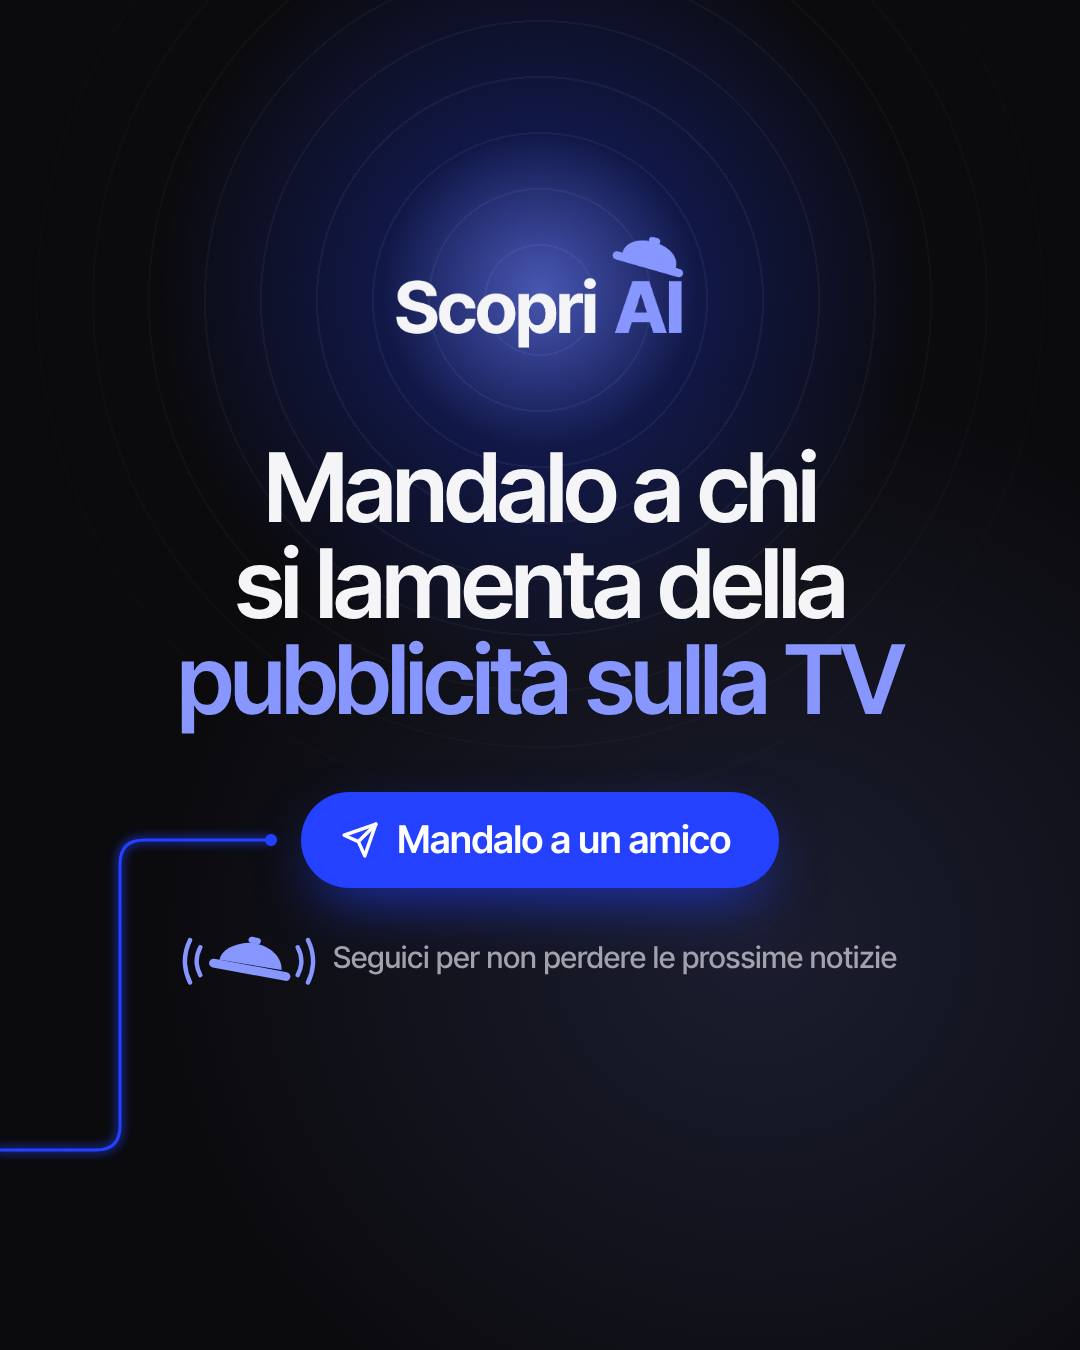
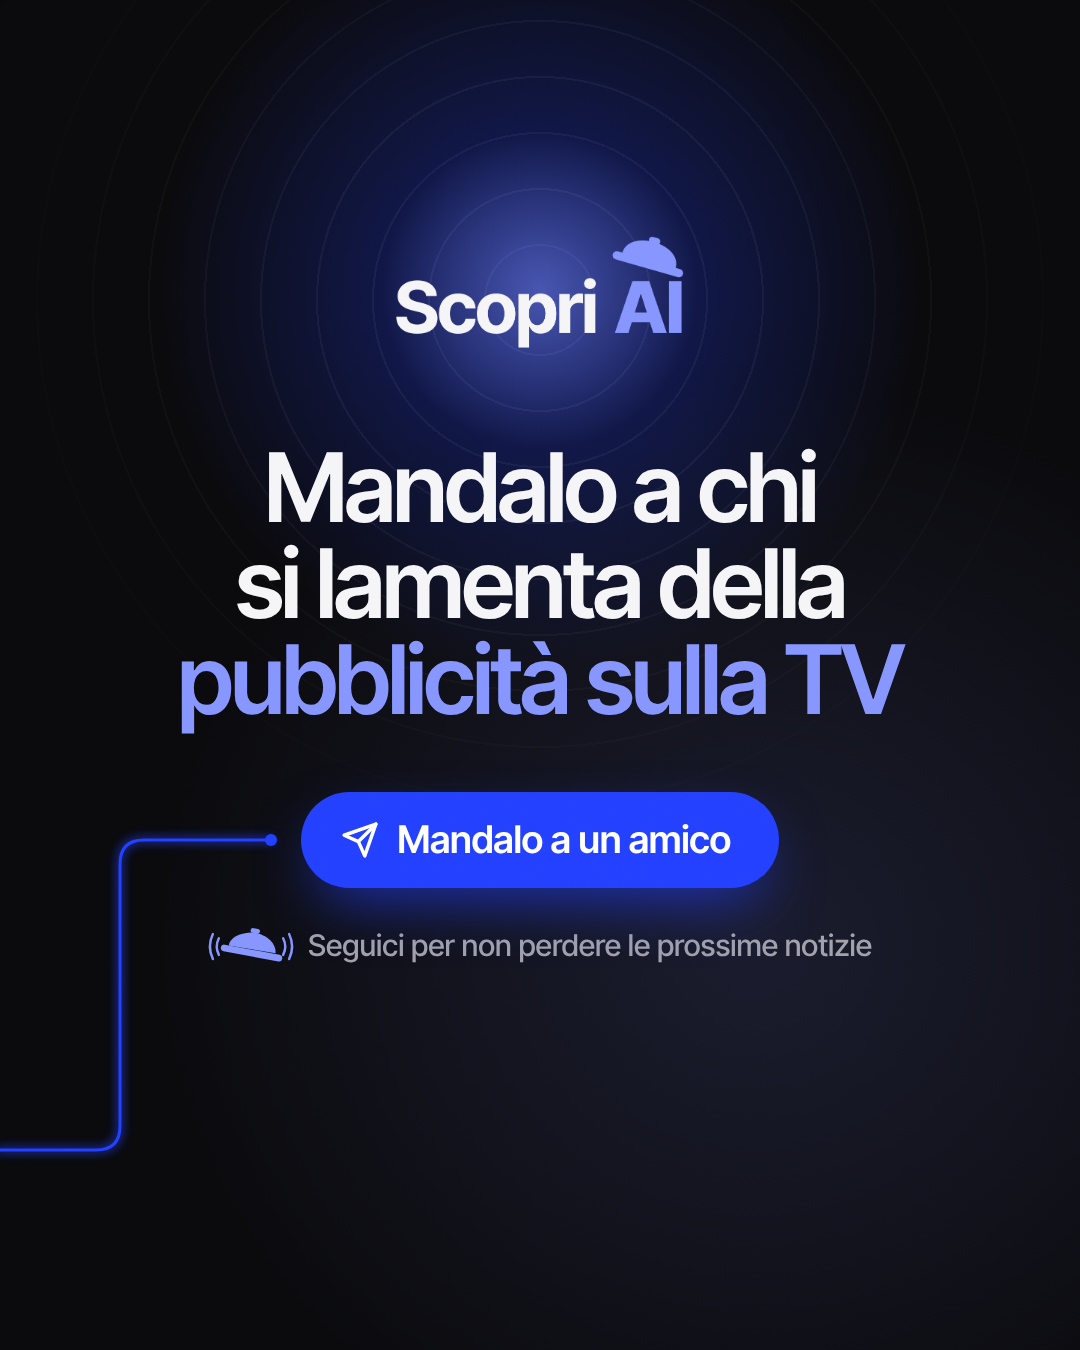
Chiusura: campana che vibra più piccola, in scala con il testo (anche nella skill)
Claude-Session: https://claude.ai/code/session_01XwbamHMD22pS1qReAsKQQF

Changed region(s): [[0.1528, 0.6844, 0.825, 0.7467]]

diff --git a/.claude/skills/scopri-carousel/assets/template/engine/carousel.js b/.claude/skills/scopri-carousel/assets/template/engine/carousel.js
@@ -46,13 +46,13 @@
 
   /* The lid of the Coperchio logo, used as the "bell" of the follow line */
   /* The lid of the Coperchio logo as a ringing bell: slightly tilted, two curved vibration lines on each side (20 Oct 2026) */
-  const BELL = '<svg class="bell" viewBox="0 0 900 420" aria-hidden="true">' +
+  const BELL = '<svg class="bell" viewBox="62 58 776 324" aria-hidden="true">' +
     '<g transform="translate(168 62) scale(.94) rotate(-6 300 170)"><path d="M88 140C110 70 200 35 310 40C420 50 545 140 528 262Z"/>' +
     '<path d="M42 160L555 312" style="fill:none;stroke:currentColor;stroke-width:64;stroke-linecap:round"/>' +
     '<path d="M335 22L378 35" style="fill:none;stroke:currentColor;stroke-width:46;stroke-linecap:round"/></g>' +
-    '<g style="fill:none;stroke:currentColor;stroke-width:30;stroke-linecap:round">' +
-    '<path d="M118 130Q68 225 118 320"/><path d="M48 80Q-22 225 48 370"/>' +
-    '<path d="M782 130Q832 225 782 320"/><path d="M852 80Q922 225 852 370"/></g></svg>';
+    '<g style="fill:none;stroke:currentColor;stroke-width:22;stroke-linecap:round">' +
+    '<path d="M160 150Q122 225 160 300"/><path d="M106 112Q52 225 106 338"/>' +
+    '<path d="M740 150Q778 225 740 300"/><path d="M794 112Q848 225 794 338"/></g></svg>';
   const FOLLOW = { notizia: 'Seguici per non perdere le prossime notizie', curiosita: 'Seguici per non perdere le prossime curiosità',
     prompt: 'Seguici per non perdere i prossimi prompt', lista: 'Seguici per non perdere i prossimi consigli', serie: 'Seguici per la prossima puntata' };
 

diff --git a/carousels/2026-10-20-news-smart-tv-ai/engine/carousel.js b/carousels/2026-10-20-news-smart-tv-ai/engine/carousel.js
@@ -46,13 +46,13 @@
 
   /* The lid of the Coperchio logo, used as the "bell" of the follow line */
   /* The lid of the Coperchio logo as a ringing bell: slightly tilted, two curved vibration lines on each side (20 Oct 2026) */
-  const BELL = '<svg class="bell" viewBox="0 0 900 420" aria-hidden="true">' +
+  const BELL = '<svg class="bell" viewBox="62 58 776 324" aria-hidden="true">' +
     '<g transform="translate(168 62) scale(.94) rotate(-6 300 170)"><path d="M88 140C110 70 200 35 310 40C420 50 545 140 528 262Z"/>' +
     '<path d="M42 160L555 312" style="fill:none;stroke:currentColor;stroke-width:64;stroke-linecap:round"/>' +
     '<path d="M335 22L378 35" style="fill:none;stroke:currentColor;stroke-width:46;stroke-linecap:round"/></g>' +
-    '<g style="fill:none;stroke:currentColor;stroke-width:30;stroke-linecap:round">' +
-    '<path d="M118 130Q68 225 118 320"/><path d="M48 80Q-22 225 48 370"/>' +
-    '<path d="M782 130Q832 225 782 320"/><path d="M852 80Q922 225 852 370"/></g></svg>';
+    '<g style="fill:none;stroke:currentColor;stroke-width:22;stroke-linecap:round">' +
+    '<path d="M160 150Q122 225 160 300"/><path d="M106 112Q52 225 106 338"/>' +
+    '<path d="M740 150Q778 225 740 300"/><path d="M794 112Q848 225 794 338"/></g></svg>';
   const FOLLOW = { notizia: 'Seguici per non perdere le prossime notizie', curiosita: 'Seguici per non perdere le prossime curiosità',
     prompt: 'Seguici per non perdere i prossimi prompt', lista: 'Seguici per non perdere i prossimi consigli', serie: 'Seguici per la prossima puntata' };
 

diff --git a/.claude/skills/scopri-carousel/assets/template/engine/carousel.css b/.claude/skills/scopri-carousel/assets/template/engine/carousel.css
@@ -214,8 +214,8 @@ body.video *{animation-play-state:paused!important}           /* frames are seek
 .mode-accent .apill{background:#fff;color:var(--accent-700);box-shadow:0 24px 60px -16px rgba(16,20,90,.5)}
 .mode-accent .apill svg{stroke:var(--accent-700)}
 /* Second, smaller invite under the button: the lid of the logo as a bell + "Seguici per non perdere …" */
-.follow{margin-top:40px;display:inline-flex;align-items:center;gap:18px;font:500 30px/1.25 var(--font-primary);color:var(--body);text-wrap:balance}
-.follow .bell{flex:none;width:132px;height:62px;fill:currentColor;color:var(--acc);overflow:visible}
+.follow{margin-top:40px;display:inline-flex;align-items:center;gap:14px;font:500 30px/1.25 var(--font-primary);color:var(--body);text-wrap:balance}
+.follow .bell{flex:none;width:86px;height:36px;fill:currentColor;color:var(--acc);overflow:visible;transform:translateY(-1px)}   /* ≈1.2× the 30 px text */
 .mode-accent .follow .bell{color:#fff}
 
 /* ===== Motion (animated carousels only; the engine assigns these, see references/animation.md) ===== */

diff --git a/carousels/2026-10-20-news-smart-tv-ai/engine/carousel.css b/carousels/2026-10-20-news-smart-tv-ai/engine/carousel.css
@@ -214,8 +214,8 @@ body.video *{animation-play-state:paused!important}           /* frames are seek
 .mode-accent .apill{background:#fff;color:var(--accent-700);box-shadow:0 24px 60px -16px rgba(16,20,90,.5)}
 .mode-accent .apill svg{stroke:var(--accent-700)}
 /* Second, smaller invite under the button: the lid of the logo as a bell + "Seguici per non perdere …" */
-.follow{margin-top:40px;display:inline-flex;align-items:center;gap:18px;font:500 30px/1.25 var(--font-primary);color:var(--body);text-wrap:balance}
-.follow .bell{flex:none;width:132px;height:62px;fill:currentColor;color:var(--acc);overflow:visible}
+.follow{margin-top:40px;display:inline-flex;align-items:center;gap:14px;font:500 30px/1.25 var(--font-primary);color:var(--body);text-wrap:balance}
+.follow .bell{flex:none;width:86px;height:36px;fill:currentColor;color:var(--acc);overflow:visible;transform:translateY(-1px)}   /* ≈1.2× the 30 px text */
 .mode-accent .follow .bell{color:#fff}
 
 /* ===== Motion (animated carousels only; the engine assigns these, see references/animation.md) ===== */

diff --git a/.claude/skills/scopri-carousel/references/lessons-learned.md b/.claude/skills/scopri-carousel/references/lessons-learned.md
@@ -47,7 +47,7 @@ This file records what happened between the original brief and the approved caro
 | The cover with two side-by-side cropped screens was less striking than the earlier overlap. | Cover before/after = **overlapping collage**: before behind top-left, after in front bottom-right (`.img-box.front`), captions under the visible bottom-left edge of each. |
 | Mihir Gupta's before/after were cropped to fill the boxes. | Before/after screenshots inside the carousel are shown **whole**, at their original ratio (box sized to the image), side by side. |
 | Slide 3 kept «Prima: l'annuncio. Ora è sparito.» under a single image. | Removed: a single image that already speaks (with the headline) gets no caption. |
-| The 🔔 follow line on the closing slide had a still, small lid. The owner wanted it to look like a ringing notification. | The bell is the logo's lid, slightly tilted, with **two curved vibration lines on each side** ("(( 🔔 ))"), 132 × 62 px, in the mode's accent colour (engine `BELL`, every closing slide). Static, no GIF. Not added to the big logo: it would compete with the button and the logo must stay as it is. |
+| The 🔔 follow line on the closing slide had a still, small lid. The owner wanted it to look like a ringing notification. | The bell is the logo's lid, slightly tilted, with **two curved vibration lines on each side** ("(( 🔔 ))"), 86 × 36 px (≈ 1.2× the 30 px text: the first 132 × 62 version was too big for the line), thin lines close to the lid, in the mode's accent colour (engine `BELL`, every closing slide). Static, no GIF. Not added to the big logo: it would compete with the button and the logo must stay as it is. |
 | `python` in `/usr/local/bin` (cloud) has a broken Pillow; `npm run previews` / `npm run media` failed. | Run them with `PATH=/usr/bin:$PATH`. |
 | The cover headline at top 200 measured 191 (font ascent) and failed the live-area QA. | Without a pill, start the cover headline at **y 216**. |
 

diff --git a/.claude/skills/scopri-carousel/references/brand-scopri-ai.md b/.claude/skills/scopri-carousel/references/brand-scopri-ai.md
@@ -78,7 +78,7 @@ Redesigned on 20 Oct 2026 (owner: "il pulsante MANDA non si capisce").
 - Big centred logo lockup (~112 px, top ≈ 236), then the hierarchy **headline → button → follow line**:
   1. H1 with the **one** main invite and one accent phrase (news: "Mandalo a chi …"; prompts and lists: "Salvalo per …").
   2. A **filled button** a 70-year-old reads as a button: brand-blue pill, 96 px tall, Inter Tight 38 px, icon + words. News/curiosità: paper plane + "Mandalo a un amico"; prompt/lista: bookmark + "Salvalo per dopo"; serie: bell + "Segui Scopri AI".
-  3. A smaller **🔔 follow line** under it: the lid of the logo as a ringing bell (slightly tilted, two curved vibration lines per side, 132 × 62 px) + "Seguici per non perdere le prossime notizie" (prompt: "i prossimi prompt", curiosità: "le prossime curiosità", lista: "i prossimi consigli"). The engine writes it from `CAROUSEL.tipo`. Not in a *serie*, where following is already the main invite. On Instagram you "segui", never "iscriviti".
+  3. A smaller **🔔 follow line** under it: the lid of the logo as a ringing bell (slightly tilted, two thin curved vibration lines per side, 86 × 36 px ≈ 1.2× the 30 px text, optically centred on the line) + "Seguici per non perdere le prossime notizie" (prompt: "i prossimi prompt", curiosità: "le prossime curiosità", lista: "i prossimi consigli"). The engine writes it from `CAROUSEL.tipo`. Not in a *serie*, where following is already the main invite. On Instagram you "segui", never "iscriviti".
 - No lead is needed; if one is used, keep it to one line between headline and button.
 - The thread rises at x 120 (`threadEndX`) and ends in a node left of the button.
 
